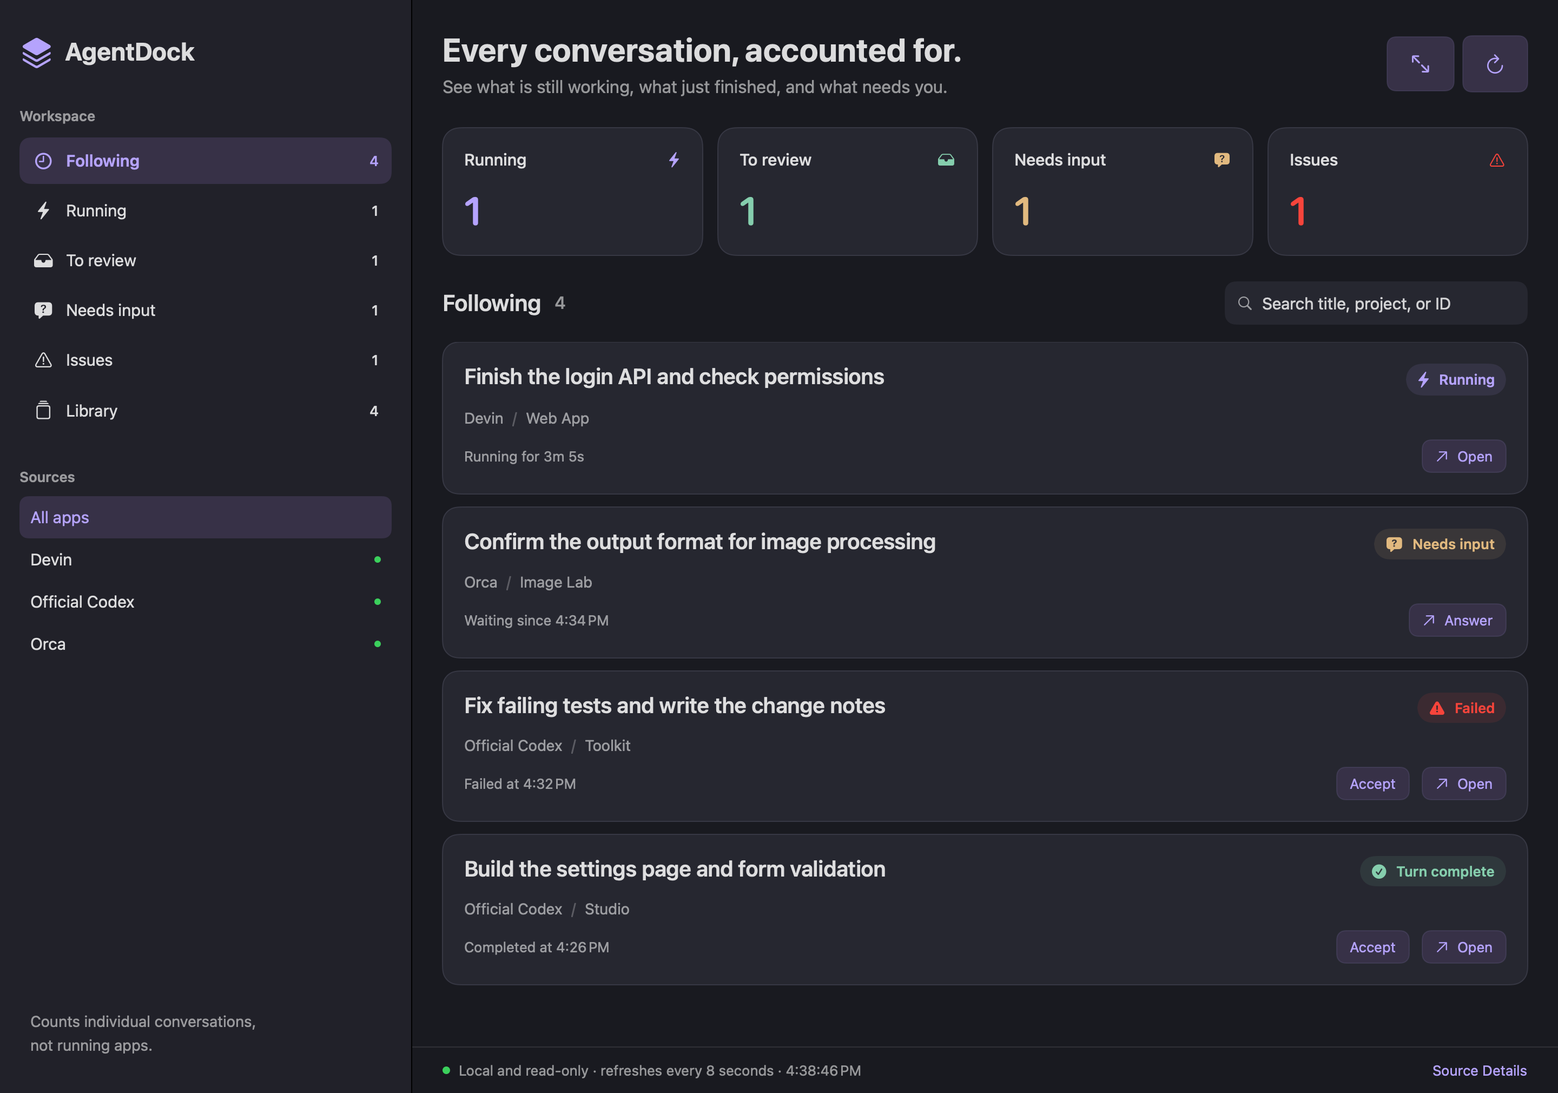
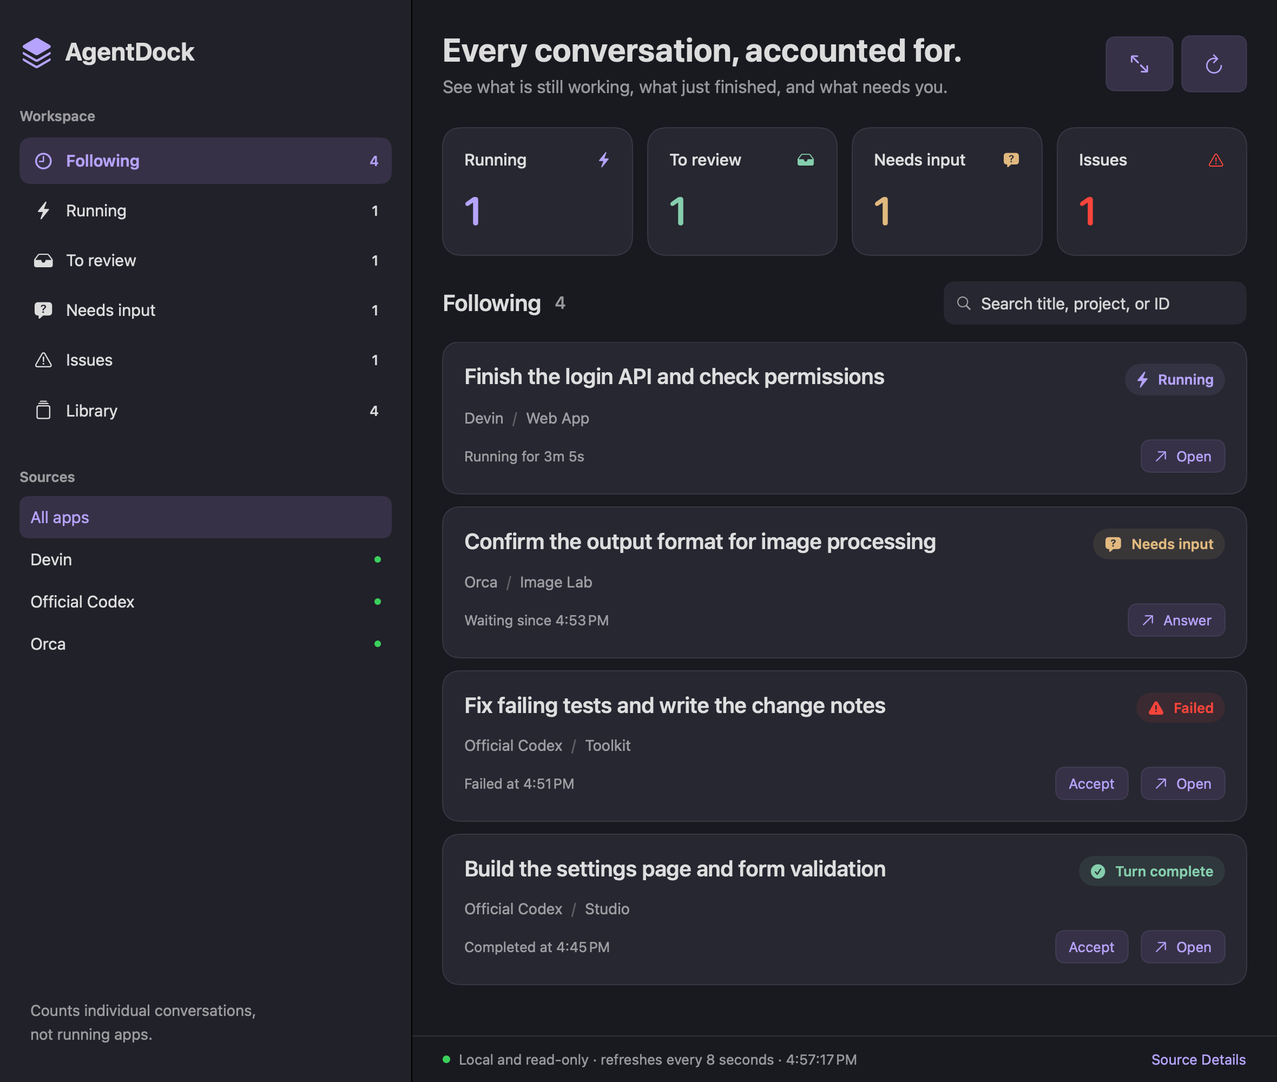
Give the README a centered header and a shorter body
Replaces the tag line of keywords with a plain description and badges, shows
the screenshot that matches the reader's light or dark theme, and folds
update, uninstall, and troubleshooting steps into collapsible sections. The
screenshots are rendered at a smaller window size so text stays readable at
README width.

Generated with [Devin](https://devin.ai)

diff --git a/README.en.md b/README.en.md
@@ -1,68 +1,56 @@
-# AgentDock
+<p align="center">
+  <img src="Resources/AgentDock.iconset/icon_256x256.png" width="112" alt="AgentDock icon">
+</p>
 
-[简体中文](README.md) · English
+<h1 align="center">AgentDock</h1>
 
-[![CI](https://github.com/mengziheng/AgentDock/actions/workflows/ci.yml/badge.svg)](https://github.com/mengziheng/AgentDock/actions/workflows/ci.yml)
+<p align="center">
+  <b>One window for the progress of every AI conversation.</b><br>
+  With Codex, Orca, and Devin all open, see at a glance what is still running, what is done, and what is waiting for you.
+</p>
 
-**One workspace for the conversations spread across your AI apps.**
+<p align="center">
+  <a href="https://github.com/mengziheng/AgentDock/actions/workflows/ci.yml"><img src="https://github.com/mengziheng/AgentDock/actions/workflows/ci.yml/badge.svg" alt="CI"></a>
+  <img src="https://img.shields.io/badge/macOS-13%2B-black?logo=apple" alt="macOS 13+">
+  <img src="https://img.shields.io/badge/Swift-6-F05138?logo=swift&logoColor=white" alt="Swift 6">
+  <a href="LICENSE"><img src="https://img.shields.io/badge/license-MIT-blue" alt="MIT License"></a>
+</p>
 
-When Codex, Orca, and Devin are all working on something, it is easy to lose track of which conversation is still running, which one has finished, and which one is waiting for your answer. AgentDock gathers them into one native macOS window and sends a notification when one needs you.
+<p align="center"><a href="README.md">简体中文</a> · English</p>
 
-Local only · read-only · no account · no telemetry · English and Chinese UI · MIT licensed
+<picture>
+  <source media="(prefers-color-scheme: dark)" srcset="docs/images/dashboard-en-dark.png">
+  <img src="docs/images/dashboard-en-light.png" alt="AgentDock workspace example: running, needs-input, failed, and finished conversations">
+</picture>
 
-![AgentDock workspace showing running, needs-input, failed, and finished conversations](docs/images/dashboard-en-light.png)
+## Features
 
-<sub>Rendered from the project's own UI code with fictional tasks.</sub>
+- **One place to look**: conversations from every app are grouped into four states and searchable by title, project, or conversation ID.
+- **Notifications**: when a conversation finishes, waits for your answer, or fails, you get a system notification that opens it in one click. The Dock badge counts conversations that need input or have issues.
+- **Nothing slips through**: finished conversations stay listed until you accept them; accept a whole list at once and undo a mistake.
+- **Data stays on your Mac**: AgentDock reads the records each app keeps locally. No account, nothing uploaded.
 
-<details>
-<summary>Dark mode</summary>
-
-![AgentDock in dark mode](docs/images/dashboard-en-dark.png)
-
-</details>
-
-## What it does
-
-- **Fewer windows to check.** See every app's conversations with their project and current status in one place, and search by title, project, or conversation ID.
-- **No need to keep watching.** When a followed conversation finishes, waits for your answer, or fails, AgentDock sends a system notification; clicking it opens that conversation. The Dock badge shows how many conversations need input or have issues.
-- **Unreviewed results stay put.** Conversations that are running or waiting for you are followed automatically and stay after they finish until you click Accept. You can accept a whole list at once and undo within 8 seconds.
-- **Back to the source app.** Codex conversations open directly; Devin tries to open the matching session; Orca is brought to the front with the conversation title copied so you can find it.
-
-### Four states
-
-| State | What to do |
-|---|---|
-| **Running** | Let it work and check back later |
-| **To review** | Check this turn's result and accept it when you are satisfied |
-| **Needs input** | Go back and answer the question or make a choice |
-| **Issues** | Open the details to see the error, interruption, or why the status is unclear |
-
-Accepting only removes AgentDock's record; the original conversation is untouched. The conversation comes back when a new turn starts.
+| State | Meaning | What to do |
+|---|---|---|
+| Running | The agent is still working | Check back later |
+| To review | This turn is done | Review the result and accept it |
+| Needs input | The agent is waiting for you | Answer in the conversation |
+| Issues | Failed, interrupted, or unclear | Open the details for the reason |
 
 ## Supported apps
 
-| App | What AgentDock recognizes | Tested version |
+| App | What it recognizes | Tested version |
 |---|---|---|
-| **Official Codex** (ChatGPT desktop app) | Desktop conversations, their projects, and the status of each turn | 26.1027.30824 |
-| **Other Codex-compatible apps** | Same as official Codex once listed in a local config file; see the [configuration](docs/compatibility.md#其他兼容-codex-的应用) | — |
-| **Orca** | Agents in remote terminals, and Codex CLI conversations in local tabs | 1.4.243 |
-| **Devin** | Running, needs input, finished, interrupted, and model-provider refusals for local sessions | 3.12.17 |
+| Official Codex | Desktop conversations and the status of each turn; opens the conversation directly | 26.1027.30824 |
+| Orca | Agents in remote terminals, and the Codex CLI in local tabs | 1.4.243 |
+| Devin | Running, needs input, finished, interrupted, and model refusals; tries to open the session | 3.12.17 |
+| Other Codex-compatible apps | Same as official Codex once added to a config file ([how](docs/compatibility.md#其他兼容-codex-的应用)) | — |
 
-Tested on macOS 26.6.2 (Apple Silicon). AgentDock reads each app's local storage, which an app update can change; if a status looks wrong, first compare your versions with this table.
-
-**Known limitations**
-
-- When Codex waits for you to approve a command or Devin waits for tool permission, the conversation shows as Running. Neither app writes these requests to local storage.
-- Among Orca's local tabs, only those running the Codex CLI are recognized; for other agents only finished, sleeping sessions are.
-- This is an experimental preview; confirm important work in the source app. The full detection rules are in [compatibility and limitations](docs/compatibility.md) (Chinese).
+Tested on macOS 26.6.2 (Apple Silicon). When Codex waits for command approval or Devin waits for tool permission, the conversation shows as Running, because neither app records these requests locally. Full details are in [compatibility and limitations](docs/compatibility.md) (Chinese).
 
 ## Install
 
-Requirements:
-
-- macOS 13 or later
-- Xcode 16 or later, or the Command Line Tools with Swift 6
-- Python 3 (installed with the Command Line Tools)
+Requires macOS 13 or later and Xcode 16 or the Command Line Tools with Swift 6.
 
 ```bash
 git clone https://github.com/mengziheng/AgentDock.git
@@ -71,60 +59,48 @@ bash scripts/install-app.sh "$HOME/Applications/AgentDock.app"
 open "$HOME/Applications/AgentDock.app"
 ```
 
-The script builds the app from source and signs it ad hoc for this Mac; it does not add a login item. There is no Apple-signed, notarized download yet, so installing from source is the only option.
+There is no Apple-signed download yet, so install from source. Allow notifications on first launch; the UI follows the system language (English or Chinese).
 
-On first launch macOS asks whether AgentDock may send notifications; everything else works if you decline, and you can turn them on later in System Settings → Notifications. The UI follows the system language (English or Simplified Chinese). To open AgentDock at login, add `AgentDock.app` in System Settings → General → Login Items.
+<details>
+<summary><b>Update and uninstall</b></summary>
 
-## Update
+**Update**: quit AgentDock, run `git pull` in the source folder, then run the install command again. Your followed conversations are kept.
 
-Quit AgentDock, then run in the source folder:
+**Uninstall**: quit and delete `AgentDock.app`, then remove AgentDock's local records (conversations in the source apps are not affected):
 
 ```bash
-git pull
-bash scripts/install-app.sh "$HOME/Applications/AgentDock.app"
+defaults delete com.local.AgentDock
+rm -rf "$HOME/Library/Application Support/AgentDock"
 ```
 
-Your followed and accepted conversations are kept.
+</details>
 
-## Uninstall
+<details>
+<summary><b>Troubleshooting</b></summary>
 
-1. Quit AgentDock and delete `AgentDock.app`.
-2. If you added a login item, remove it in System Settings → General → Login Items.
-3. Delete AgentDock's own local records:
-
-   ```bash
-   defaults delete com.local.AgentDock
-   rm -rf "$HOME/Library/Application Support/AgentDock"
-   ```
-
-   The first command removes the following and acceptance records; the second removes the Codex-compatible app configuration. Conversations in the source apps are not affected.
-
-## Troubleshooting
-
-- **An orange dot next to a source in the sidebar** means AgentDock could not read that app's data. Click Source Details in the bottom-right corner to see why; usually the app is not installed, has not been used on this Mac yet, or changed its storage format in an update.
-- **A status looks wrong**: open the card and read Status evidence, which names the record the status comes from.
-- **To check what each source reports**, run the following in the source folder. It scans twice, prints the timing, and lists conversation counts per app and state, without titles, paths, or message content.
+- **An orange dot next to a source**: AgentDock could not read that app's data. Click Source Details in the bottom-right corner to see why.
+- **A status looks wrong**: open the card; Status evidence names the record the status comes from.
+- **Check what each source reports**: the command below prints conversation counts per app and state, without any conversation content.
 
   ```bash
-  swift build -c release --product AgentDockScan
-  .build/release/AgentDockScan
+  swift build -c release --product AgentDockScan && .build/release/AgentDockScan
   ```
 
-- **Still stuck?** Open an issue with the source app's version, steps to reproduce, and the output above, and remove real work content from any screenshots.
+- Still stuck? [Open an issue](https://github.com/mengziheng/AgentDock/issues) with the app versions and steps to reproduce.
 
-## Your data stays on this Mac
+</details>
 
-AgentDock has no backend, calls no models, and uploads no conversations or logs. It opens the source apps' databases and state files read-only and keeps its following and acceptance records on this Mac.
+## Privacy
 
-Those records may include conversation titles, paths, first messages, and error summaries, and notifications show conversation titles. See [local data](docs/compatibility.md#本地数据) for what is read, and [SECURITY.md](SECURITY.md) for privacy issues (both in Chinese).
+AgentDock has no server, calls no models, and only reads local data. Its tracking records may include conversation titles and paths, and notifications show conversation titles. See [SECURITY.md](SECURITY.md) (Chinese).
 
-## Development
+## Contributing
 
 ```bash
 swift build -c release
 scripts/test.sh
 ```
 
-`scripts/test.sh` runs `swift test`, adding the Swift Testing framework paths when only the Command Line Tools are installed; with Xcode, plain `swift test` works too. Tests use synthetic data only, and GitHub Actions builds and tests every push and pull request. Reports about wrong statuses, version compatibility, and usability are welcome; see [CONTRIBUTING.md](CONTRIBUTING.md) (Chinese).
+Tests use fictional data only. Reports of wrong statuses and compatibility issues are welcome; see [CONTRIBUTING.md](CONTRIBUTING.md) (Chinese).
 
-[MIT License](LICENSE) · An independent project, not affiliated with or endorsed by the apps or vendors listed.
+<sub>MIT License · An independent project, not affiliated with the apps or their developers. Tasks in the screenshots are fictional.</sub>

diff --git a/README.md b/README.md
@@ -1,68 +1,56 @@
-# AgentDock
+<p align="center">
+  <img src="Resources/AgentDock.iconset/icon_256x256.png" width="112" alt="AgentDock 图标">
+</p>
 
-简体中文 · [English](README.en.md)
+<h1 align="center">AgentDock</h1>
 
-[![CI](https://github.com/mengziheng/AgentDock/actions/workflows/ci.yml/badge.svg)](https://github.com/mengziheng/AgentDock/actions/workflows/ci.yml)
+<p align="center">
+  <b>一个窗口，看清所有 AI 对话的进度。</b><br>
+  同时开着 Codex、Orca、Devin 时，哪条还在跑、哪条做完了、哪条在等你回答，一眼就能看到。
+</p>
 
-**把分散在多个 AI 应用里的对话，收进一个工作台。**
+<p align="center">
+  <a href="https://github.com/mengziheng/AgentDock/actions/workflows/ci.yml"><img src="https://github.com/mengziheng/AgentDock/actions/workflows/ci.yml/badge.svg" alt="CI"></a>
+  <img src="https://img.shields.io/badge/macOS-13%2B-black?logo=apple" alt="macOS 13+">
+  <img src="https://img.shields.io/badge/Swift-6-F05138?logo=swift&logoColor=white" alt="Swift 6">
+  <a href="LICENSE"><img src="https://img.shields.io/badge/license-MIT-blue" alt="MIT License"></a>
+</p>
 
-同时用 Codex、Orca 和 Devin 做几件事，很容易忘记哪条对话还在跑、哪条已经交付、哪条正等你回答。AgentDock 把这些对话集中到一个原生 macOS 窗口，需要你处理时发出系统通知。
+<p align="center">简体中文 · <a href="README.en.md">English</a></p>
 
-本地运行 · 只读扫描 · 无账号 · 无遥测 · 中英文界面 · MIT 开源
+<picture>
+  <source media="(prefers-color-scheme: dark)" srcset="docs/images/dashboard-dark.png">
+  <img src="docs/images/dashboard-light.png" alt="AgentDock 工作台示例：执行中、待输入、异常和待验收的对话">
+</picture>
 
-![AgentDock 工作台：同时查看执行中、待输入、异常和待验收的对话](docs/images/dashboard-light.png)
+## 功能
 
-<sub>截图由项目代码渲染，任务均为虚构。</sub>
+- **集中查看**：各应用里的对话按状态分成四组，可以按标题、项目或对话 ID 搜索。
+- **主动提醒**：对话做完、等你回答或出错时发系统通知，点一下就回到那条对话。Dock 图标显示待输入和异常的数量。
+- **不漏结果**：做完的对话一直留在列表里，直到你确认验收；可以一次全部验收，误点后能撤销。
+- **数据不出本机**：直接读取各应用保存在本机的记录，不需要账号，不上传任何内容。
 
-<details>
-<summary>查看深色模式</summary>
-
-![AgentDock 深色模式](docs/images/dashboard-dark.png)
-
-</details>
-
-## 它能帮你做什么
-
-- **少切几个窗口。** 在一处查看各应用的对话标题、所在项目和当前状态，可以按标题、项目或对话 ID 搜索。
-- **不用盯着窗口。** 跟进中的对话结束、等你回答或出错时，AgentDock 发送系统通知，点击通知即可打开该对话。Dock 图标上的数字是“待输入”和“异常”的总数。
-- **记住还没验收的结果。** 正在执行或等你回答的对话会自动加入跟进，结束后继续保留，直到你点“确认验收”。可以一次验收整个列表，误点后 8 秒内可以撤销。
-- **回到原应用处理。** Codex 的对话可以直接跳转；Devin 会尝试跳转到对应会话；Orca 会打开应用并复制对话标题，方便你查找。
-
-### 四种状态
-
-| 状态 | 你需要做什么 |
-|---|---|
-| **执行中** | 让它继续工作，稍后再看 |
-| **待验收** | 检查本轮结果，满意后确认验收 |
-| **待输入** | 回到对话，回答问题或作出选择 |
-| **异常** | 打开详情，查看报错、中断或状态不确定的原因 |
-
-“确认验收”只移除 AgentDock 的跟进记录，原对话保持不变。同一对话开始新一轮执行时，它会重新出现。
+| 状态 | 含义 | 你要做的 |
+|---|---|---|
+| 执行中 | Agent 还在工作 | 稍后再看 |
+| 待验收 | 这一轮已经做完 | 检查结果，确认验收 |
+| 待输入 | Agent 在等你回答 | 回到对话作答 |
+| 异常 | 出错、中断或状态不明 | 打开详情看原因 |
 
 ## 支持的应用
 
-| 应用 | 能识别的内容 | 测试过的版本 |
+| 应用 | 能识别什么 | 测试版本 |
 |---|---|---|
-| **官方 Codex**（ChatGPT 桌面应用） | 桌面对话、所在项目和每一轮的状态 | 26.1027.30824 |
-| **其他兼容 Codex 的应用** | 在本机配置文件中登记后，识别方式与官方 Codex 相同，见[配置方法](docs/compatibility.md#其他兼容-codex-的应用) | — |
-| **Orca** | 远程终端里的 Agent，以及本机标签页里运行的 Codex CLI 对话 | 1.4.243 |
-| **Devin** | 本地会话的执行中、待输入、已完成、已中断和模型供应商拒绝 | 3.12.17 |
+| 官方 Codex | 桌面对话和每一轮的状态，可直接跳转到对话 | 26.1027.30824 |
+| Orca | 远程终端里的 Agent，以及本机标签页里的 Codex CLI | 1.4.243 |
+| Devin | 执行中、待输入、完成、中断和模型拒绝，会尝试跳转到会话 | 3.12.17 |
+| 其他兼容 Codex 的应用 | 写进配置文件后，与官方 Codex 相同（[配置方法](docs/compatibility.md#其他兼容-codex-的应用)） | — |
 
-测试环境为 macOS 26.6.2（Apple Silicon）。AgentDock 读取的是各应用的本地存储，应用升级可能改变存储格式；如果识别结果不对，请先对照上表核对版本。
-
-**已知限制**
-
-- Codex 等你批准命令、Devin 等你授权工具时，显示为“执行中”。这两个应用不会把这类请求写进本地记录。
-- Orca 的本机标签页只识别运行 Codex CLI 的；其他 Agent 只能识别已经结束的休眠会话。
-- 这是实验性预览版，重要任务请在原应用中确认。完整的识别规则见[兼容性与识别限制](docs/compatibility.md)。
+测试环境为 macOS 26.6.2（Apple Silicon）。Codex 等你批准命令、Devin 等你授权工具时会显示为“执行中”，因为这两个应用不在本机记录这类请求。完整说明见[兼容性与识别限制](docs/compatibility.md)。
 
 ## 安装
 
-需要：
-
-- macOS 13 或更新版本
-- Xcode 16 或更新版本；也可以只装 Command Line Tools，但需要包含 Swift 6
-- Python 3（安装 Command Line Tools 时会一并装上）
+需要 macOS 13 及以上，以及 Xcode 16 或包含 Swift 6 的 Command Line Tools。
 
 ```bash
 git clone https://github.com/mengziheng/AgentDock.git
@@ -71,60 +59,48 @@ bash scripts/install-app.sh "$HOME/Applications/AgentDock.app"
 open "$HOME/Applications/AgentDock.app"
 ```
 
-安装脚本从源码构建 App，用本机临时签名（ad-hoc），不会添加登录项。目前没有经过 Apple 签名和公证的安装包，只能从源码安装。
+目前没有经过 Apple 签名的安装包，需要从源码安装。首次打开时请允许通知；界面语言跟随系统，支持中文和英文。
 
-首次打开时 macOS 会询问是否允许通知；拒绝了也不影响其他功能，之后可以在“系统设置 → 通知”中开启。界面语言跟随系统，支持简体中文和英文。需要开机自动打开时，在“系统设置 → 通用 → 登录项”中添加 `AgentDock.app`。
+<details>
+<summary><b>更新与卸载</b></summary>
 
-## 更新
+**更新**：退出 AgentDock，在源码目录运行 `git pull`，再执行一次上面的安装命令。跟进记录会保留。
 
-先退出 AgentDock，然后在源码目录运行：
+**卸载**：退出并删除 `AgentDock.app`，然后清除本地记录（各应用里的对话不受影响）：
 
 ```bash
-git pull
-bash scripts/install-app.sh "$HOME/Applications/AgentDock.app"
+defaults delete com.local.AgentDock
+rm -rf "$HOME/Library/Application Support/AgentDock"
 ```
 
-跟进和验收记录会保留。
+</details>
 
-## 卸载
+<details>
+<summary><b>遇到问题</b></summary>
 
-1. 退出 AgentDock，删除 `AgentDock.app`。
-2. 如果添加过登录项，在“系统设置 → 通用 → 登录项”中移除。
-3. 删除 AgentDock 自己的本地记录：
-
-   ```bash
-   defaults delete com.local.AgentDock
-   rm -rf "$HOME/Library/Application Support/AgentDock"
-   ```
-
-   第一条删除跟进和验收记录，第二条删除兼容 Codex 应用的配置文件。各来源应用里的对话不受影响。
-
-## 遇到问题
-
-- **侧栏的来源旁显示橙点**：表示没有读到这个应用的数据。点窗口右下角的“接入详情”查看原因，常见原因是没装这个应用、还没在这台电脑上用过，或者应用升级后存储格式变了。
-- **状态看起来不对**：点开卡片，看详情里的“状态依据”，它说明了这个判断来自哪条记录。
-- **想检查各来源的识别情况**：在源码目录运行下面的命令。它连续扫描两次并输出耗时，再按应用列出对话数量和各状态的计数，不会输出标题、路径或对话内容。
+- **侧栏的来源旁显示橙点**：没有读到这个应用的数据。点窗口右下角的“接入详情”查看原因。
+- **状态看起来不对**：点开卡片，详情里的“状态依据”说明了判断来自哪条记录。
+- **检查各来源的识别情况**：运行下面的命令，它只输出各应用的对话数量和状态计数，不包含对话内容。
 
   ```bash
-  swift build -c release --product AgentDockScan
-  .build/release/AgentDockScan
+  swift build -c release --product AgentDockScan && .build/release/AgentDockScan
   ```
 
-- **仍然解决不了**：提交 Issue，写明来源应用的版本和复现步骤，附上上面的诊断输出，并移除截图里的真实工作内容。
+- 仍然解决不了，请[提交 Issue](https://github.com/mengziheng/AgentDock/issues)，写明应用版本和复现步骤。
 
-## 对话数据留在本机
+</details>
 
-AgentDock 没有后端服务，不调用模型，也不会上传对话或日志。它以只读方式读取来源应用的数据库和状态文件，跟进与验收记录只保存在本机。
+## 隐私
 
-这些本地记录可能包含对话标题、路径、首条消息和错误摘要，系统通知也会显示对话标题。读取了哪些位置见[本地数据说明](docs/compatibility.md#本地数据)，隐私问题见 [SECURITY.md](SECURITY.md)。
+AgentDock 没有服务器，不调用模型，只以只读方式读取本机数据。它保存的跟进记录可能包含对话标题和路径，系统通知也会显示对话标题。详见 [SECURITY.md](SECURITY.md)。
 
-## 开发与贡献
+## 参与开发
 
 ```bash
 swift build -c release
 scripts/test.sh
 ```
 
-`scripts/test.sh` 运行 `swift test`；只装了 Command Line Tools 时，它会补上 Swift Testing 框架的路径。装有 Xcode 时也可以直接运行 `swift test`。测试只使用合成数据，每次推送和 Pull Request 都会在 GitHub Actions 上构建并测试。欢迎反馈状态误判、版本兼容和使用体验，参见 [CONTRIBUTING.md](CONTRIBUTING.md)。
+测试只使用虚构数据。欢迎反馈识别错误和兼容性问题，参见 [CONTRIBUTING.md](CONTRIBUTING.md)。
 
-[MIT License](LICENSE) · 非官方独立项目，与所列应用及其供应商没有隶属或背书关系。
+<sub>MIT License · 独立项目，与所列应用及其开发商没有关联。截图中的任务均为虚构。</sub>
